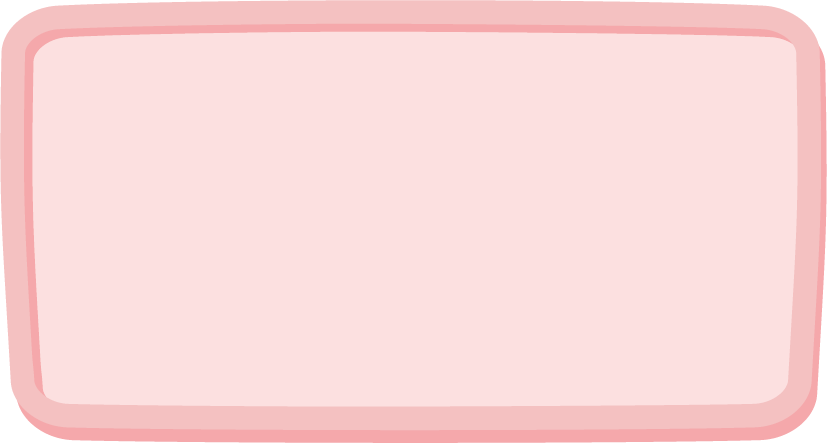
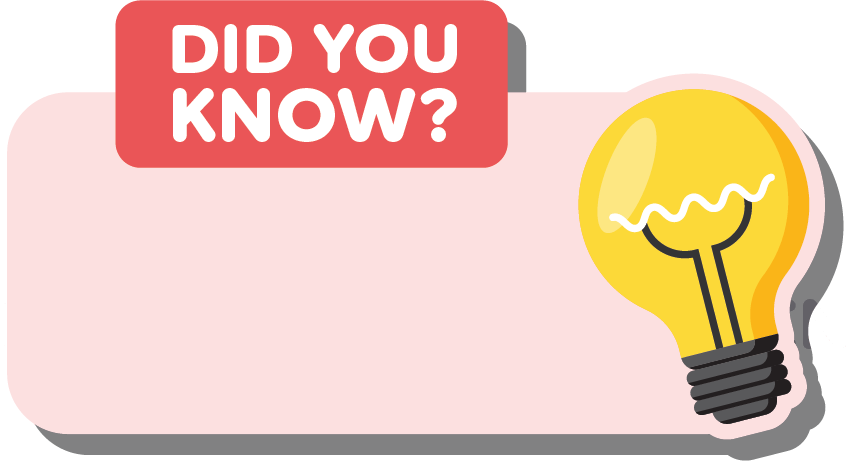
fixed font bug and modal structure

diff --git a/src/game/scenes/GameScene.ts b/src/game/scenes/GameScene.ts
@@ -10,7 +10,9 @@ import {
   PRESS_TARGET,
   GAME_DURATION,
   GO_TIMER_DURATION,
+  MODAL_DURATION,
 } from '../constants/gameConfig';
+import { globalTextStyle } from '../constants/textStyle';
 
 interface GameSceneData {
   avatar: string;
@@ -47,6 +49,7 @@ export default class GameScene extends Phaser.Scene {
     this.load.image(Assets.UI.Track, 'assets/racetrack.png');
     this.load.image(Assets.Avatars.RunBoy, 'assets/run-boy.png');
     this.load.image(Assets.Avatars.RunGirl, 'assets/run-girl.png');
+    this.load.image(Assets.UI.QuestionBox, 'assets/questionbox-background.png');
     this.load.image(Assets.UI.Modal, 'assets/modal-background.png');
   }
 
@@ -68,7 +71,7 @@ export default class GameScene extends Phaser.Scene {
     this.gameTimerText = this.add
       .text(540, 50, formatTime(this.gameCountdownValue), {
         fontSize: '48px',
-        color: '#fff',
+        ...globalTextStyle
       })
       .setOrigin(0.5);
 
@@ -85,47 +88,46 @@ export default class GameScene extends Phaser.Scene {
     
         // Left
         if (this.padHandler.isButtonJustPressed(pad, 14) && this.selectedLane > 0) {
-          this.selectedLane--;
-          this.avatar.setX(LANES_X[this.selectedLane]);
-          updateAnswerHighlights(this.answerTexts, this.selectedLane);
+          this.moveLane(-1);
         }
     
         // Right
         if (this.padHandler.isButtonJustPressed(pad, 15) && this.selectedLane < 2) {
-          this.selectedLane++;
-          this.avatar.setX(LANES_X[this.selectedLane]);
-          updateAnswerHighlights(this.answerTexts, this.selectedLane);
+          this.moveLane(1);
         }
     
         // Confirm
         if (pad.buttons.some(btn => btn.pressed)) {
-          this.buttonPressCount++;
-          if (this.buttonPressCount >= PRESS_TARGET) {
-            this.registerAnswer();
-          }
+          this.runToAnswer();
         }
     
       } else {
         // Keyboard mode
         if (Phaser.Input.Keyboard.JustDown(this.cursors.left!) && this.selectedLane > 0) {
-          this.selectedLane--;
-          this.avatar.setX(LANES_X[this.selectedLane]);
-          updateAnswerHighlights(this.answerTexts, this.selectedLane);
+          this.moveLane(-1);
         }
     
         if (Phaser.Input.Keyboard.JustDown(this.cursors.right!) && this.selectedLane < 2) {
-          this.selectedLane++;
-          this.avatar.setX(LANES_X[this.selectedLane]);
-          updateAnswerHighlights(this.answerTexts, this.selectedLane);
+          this.moveLane(1);
         }
     
         if (Phaser.Input.Keyboard.JustDown(this.enterKey)) {
-          this.buttonPressCount++;
-          if (this.buttonPressCount >= PRESS_TARGET) {
-            this.registerAnswer();
-          }
+          this.runToAnswer();
         }
       }
+    }
+  }
+
+  private moveLane(direction: -1 | 1) {
+    this.selectedLane += direction;
+    this.avatar.setX(LANES_X[this.selectedLane]);
+    updateAnswerHighlights(this.answerTexts, this.selectedLane);
+  }
+
+  private runToAnswer() {
+    this.buttonPressCount++;
+    if (this.buttonPressCount >= PRESS_TARGET) {
+      this.registerAnswer();
     }
   }
 
@@ -149,7 +151,7 @@ export default class GameScene extends Phaser.Scene {
     this.goTimerText = this.add
       .text(540, 300, this.goCountdown.toString(), {
         fontSize: '72px',
-        color: '#ffffff',
+        ...globalTextStyle
       })
       .setOrigin(0.5);
 
@@ -176,24 +178,23 @@ export default class GameScene extends Phaser.Scene {
 
     const topicText = this.add
       .text(540, 150, question.topic, {
+        ...globalTextStyle,
         fontSize: '36px',
-        color: '#fff',
-        ...globalTextStyle
       })
       .setOrigin(0.5);
 
     const questionText = this.add
       .text(540, 250, question.question, {
+        ...globalTextStyle,
         fontSize: '32px',
-        color: '#fff',
         wordWrap: { width: 800 },
-        ...globalTextStyle
       })
       .setOrigin(0.5);
 
     this.answerTexts = question.answers.map((answer, i) =>
       this.add
         .text(LANES_X[i], 400, answer, {
+          ...globalTextStyle,
           fontSize: '28px',
           color: '#fff',
           backgroundColor: i === this.selectedLane ? '#4444ff' : undefined,
@@ -223,17 +224,22 @@ export default class GameScene extends Phaser.Scene {
     this.inputLocked = true;
     this.gameCountdownInterval.paused = true;
 
-    const bg = this.add.image(540, 960, Assets.UI.Modal);
+    const bg = this.add.image(0,0, Assets.UI.Modal).setOrigin(0.5);
     const text = this.add
-      .text(540, 960, isCorrect ? 'Correct!' : 'Wrong!', {
-        fontSize: '64px',
-        color: '#fff',
+      .text(-bg.width / 2 + 40, 40, isCorrect ? 'Correct!' : this.currentQuestion.didYouKnow, {
+        ...globalTextStyle,
+        fontSize: '32px',
+        color: '#000',
+        align: 'left',
+        wordWrap: { width: bg.width - 300, useAdvancedWrap: true },
       })
-      .setOrigin(0.5);
+      .setOrigin(0, 0.5);
 
-    this.modal = this.add.container(0, 0, [bg, text])
+    this.modal = this.add.container(540, 960, [bg, text])
       .setAlpha(0)
       .setDepth(2);
+
+    this.modal.setSize(bg.width,bg.height);
 
     this.tweens.add({
       targets: this.modal,
@@ -246,7 +252,7 @@ export default class GameScene extends Phaser.Scene {
       this.tweens.add({
         targets: this.modal,
         alpha: 0,
-        duration: 300,
+        duration: MODAL_DURATION,
         ease: 'Power2',
         onComplete: () => {
           this.modal.destroy();

diff --git a/src/PhaserGame.tsx b/src/PhaserGame.tsx
@@ -3,7 +3,7 @@ import StartGame from './game/main';
 import { EventBus } from './game/EventBus';
 import { loadFont } from './game/utils/loadFont';
 import { globalTextStyle } from './game/constants/textStyle'; 
-import './game/scenes/GameScene'; //just to watch for file changes to hot reload, can remove this after dev
+import './game/scenes/GameScene'; // just to watch for file changes to hot reload, can remove this after dev
 
 export interface IRefPhaserGame {
   game: Phaser.Game | null;
@@ -18,40 +18,51 @@ export const PhaserGame = forwardRef<IRefPhaserGame, IProps>(function PhaserGame
   const gameRef = useRef<Phaser.Game | null>(null);
 
   useEffect(() => {
-    // Always destroy previous game instance in dev
-    if (gameRef.current) {
-      gameRef.current.destroy(true);
-      gameRef.current = null;
-    }
+    let destroyed = false;
 
-    // Create new Phaser game instance
-    const gameInstance = StartGame('game-container');
-    gameRef.current = gameInstance;
+    const init = async () => {
+      // ✅ Load font before starting the game
+      await loadFont('Houschka Rounded', '/assets/fonts/Houschka Rounded Medium.ttf');
 
-    // Set initial ref
-    const updateRef = (scene: Phaser.Scene | null) => {
-      if (typeof ref === 'function') {
-        ref({ game: gameInstance, scene });
-      } else if (ref) {
-        ref.current = { game: gameInstance, scene };
+      // Always destroy previous game instance in dev
+      if (gameRef.current) {
+        gameRef.current.destroy(true);
+        gameRef.current = null;
       }
+
+      // ✅ Start the game only after the font is ready
+      const gameInstance = await StartGame('game-container');
+      if (destroyed) return;
+
+      gameRef.current = gameInstance;
+
+      // Set initial ref
+      const updateRef = (scene: Phaser.Scene | null) => {
+        if (typeof ref === 'function') {
+          ref({ game: gameInstance, scene });
+        } else if (ref) {
+          ref.current = { game: gameInstance, scene };
+        }
+      };
+
+      updateRef(null); // Initially no scene
+
+      // Listen for scene ready
+      const onSceneReady = (sceneInstance: Phaser.Scene) => {
+        if (currentActiveScene) {
+          currentActiveScene(sceneInstance);
+        }
+        updateRef(sceneInstance);
+      };
+
+      EventBus.on('current-scene-ready', onSceneReady);
     };
 
-    updateRef(null); // Initially no scene
-
-    // Listen for scene ready
-    const onSceneReady = (sceneInstance: Phaser.Scene) => {
-      if (currentActiveScene) {
-        currentActiveScene(sceneInstance);
-      }
-      updateRef(sceneInstance);
-    };
-
-    EventBus.on('current-scene-ready', onSceneReady);
+    init();
 
     return () => {
-      EventBus.removeListener('current-scene-ready', onSceneReady);
-
+      destroyed = true;
+      EventBus.removeListener('current-scene-ready', () => {});
       if (gameRef.current) {
         gameRef.current.destroy(true);
         gameRef.current = null;

diff --git a/src/game/questionBank.ts b/src/game/questionBank.ts
@@ -7,6 +7,7 @@ export interface Question {
   question: string;
   answers: string[];
   correctIndex: number;
+  didYouKnow: string,
 }
 
 const questions: Question[] = [
@@ -16,6 +17,7 @@ const questions: Question[] = [
     question: 'Dummy Question 1',
     answers: ['Dummy Answer A', 'Dummy Answer B', 'Dummy Answer C'],
     correctIndex: 1,
+    didYouKnow: 'Dummy Did You Know 1. Extra text to test the length of the textbox. This is a long text',
   },
   {
     genre: 'Dummy Genre 1',
@@ -23,6 +25,7 @@ const questions: Question[] = [
     question: 'Dummy Question 2',
     answers: ['Answer A', 'Answer B', 'Answer C'],
     correctIndex: 1,
+    didYouKnow: 'Dummy Did You Know 2. Extra text to test the length of the textbox. This is a long text',
   },
   {
     genre: 'Dummy Genre 2',
@@ -30,6 +33,7 @@ const questions: Question[] = [
     question: 'Question 3',
     answers: ['A', 'B', 'C'],
     correctIndex: 1,
+    didYouKnow: 'Dummy Did You Know 3. Extra text to test the length of the textbox. This is a long text',
   },
   {
     genre: 'Dummy Genre 3',
@@ -37,6 +41,7 @@ const questions: Question[] = [
     question: 'Question 4',
     answers: ['A1', 'B1', 'C1'],
     correctIndex: 1,
+    didYouKnow: 'Dummy Did You Know 4. Extra text to test the length of the textbox. This is a long text',
   },
   {
     genre: 'Dummy Genre 1',
@@ -44,6 +49,7 @@ const questions: Question[] = [
     question: 'Question 5',
     answers: ['X', 'Y', 'Z'],
     correctIndex: 1,
+    didYouKnow: 'Dummy Did You Know 5. Extra text to test the length of the textbox. This is a long text',
   },
 ];
 

diff --git a/src/game/main.ts b/src/game/main.ts
@@ -9,6 +9,7 @@ import AvatarSelectionScene from './scenes/AvatarSelectionScene';
 import GameScene from './scenes/GameScene';
 import GameFinishScene from './scenes/GameFinishScene';
 import GameAnalysisScene from './scenes/GameAnalysisScene';
+import { loadFont } from './utils/loadFont';
 
 //  Find out more information about the Game Config at:
 //  https://newdocs.phaser.io/docs/3.70.0/Phaser.Types.Core.GameConfig
@@ -36,10 +37,9 @@ const config: Phaser.Types.Core.GameConfig = {
     },
 };
 
-const StartGame = (parent: string) => {
-
+const StartGame = async (parent: string): Promise<Phaser.Game> => {
+    await loadFont('Houschka Rounded', '/assets/fonts/Houschka Rounded Medium.ttf'); // adjust path if needed
     return new Game({ ...config, parent });
-
-}
+  };
 
 export default StartGame;

diff --git a/src/game/utils/loadFont.ts b/src/game/utils/loadFont.ts
@@ -1,5 +1,7 @@
-export async function loadFont(name: string, url: string) {
-  const font = new FontFace(name, `url(${url})`);
+export async function loadFont(name: string, url: string): Promise<void> {
+  console.log(`🟡 Loading font: ${name} from ${url}`);
+  const font = new FontFace(name, `url("${url}")`); // ✅ wrap URL in double quotes
   await font.load();
-  (document as any).fonts.add(font);
+  document.fonts.add(font);
+  console.log(`🟢 Font "${name}" loaded`);
 }

diff --git a/src/game/constants/textStyle.ts b/src/game/constants/textStyle.ts
@@ -1,7 +1,7 @@
 export const globalTextStyle: Phaser.Types.GameObjects.Text.TextStyle = {
   fontFamily: 'Houschka Rounded',
   // fontSize: '32px',
-  fontStyle: 'medium', // or 'italic', or 'bold italic'
+  fontStyle: 'normal', // or 'italic', or 'bold italic'
   fontWeight: '500', // Use '100', '300', ..., '800'
   color: '#ffffff',
   align: 'center',

diff --git a/src/game/constants/assets.ts b/src/game/constants/assets.ts
@@ -25,6 +25,7 @@ export const Assets = {
   UI: {
     GameTitle: 'gameTitle',
     Modal: 'modalBackground',
+    QuestionBox: 'questionBoxBackground',
     Track: 'racetrack',
     Header: 'chooseAvatarHeader',
     Analysis1: 'game-analysis1.png',

diff --git a/src/game/constants/gameConfig.ts b/src/game/constants/gameConfig.ts
@@ -7,3 +7,4 @@ export const PRESS_TARGET = 1;
 export const GO_TIMER_DURATION = 1;
 export const GAME_DURATION = 60;
 // export const GAME_DURATION = 1;
+export const MODAL_DURATION = 400; //100 = 1 sec
